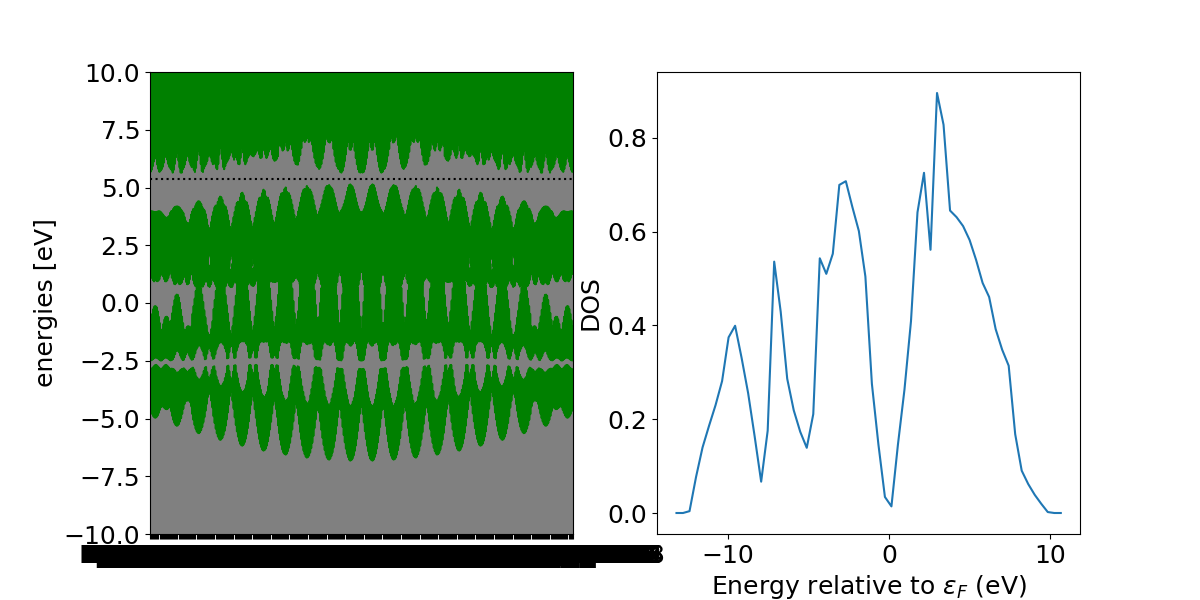
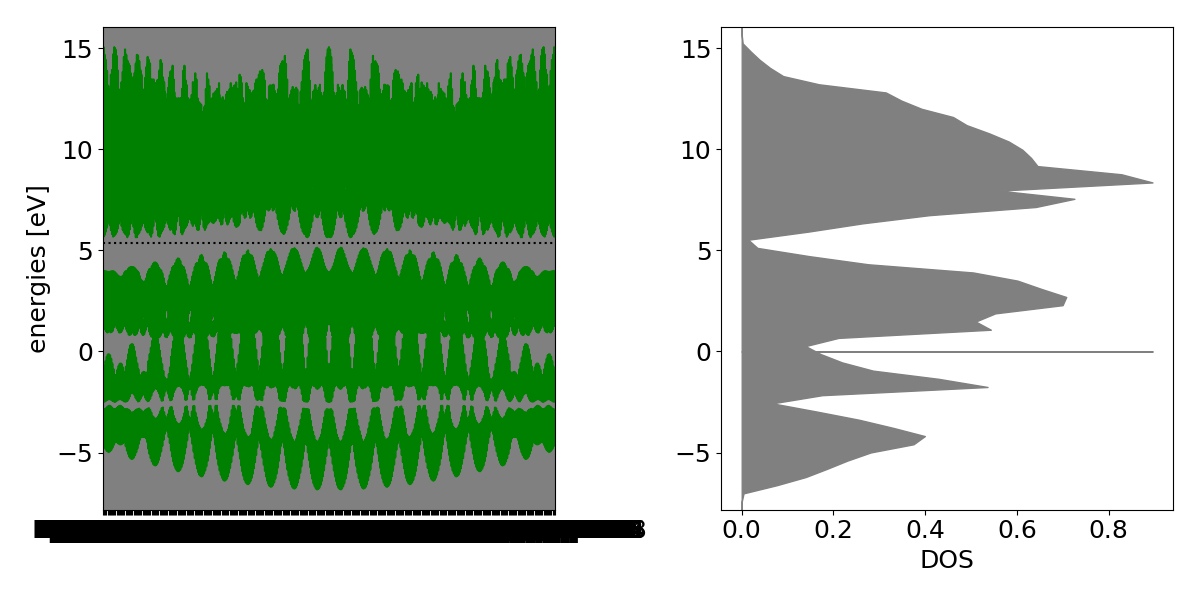
Update task 7 to not fixate density - no density to fix!

diff --git a/ComputationalMaterialsAndMolecularphysics/HW5/task7/plot_task7.py b/ComputationalMaterialsAndMolecularphysics/HW5/task7/plot_task7.py
@@ -41,11 +41,17 @@ d = pickle.load(open( "Edos.p", "rb" ))
 
 fig, ax = plt.subplots(1,2, figsize=(12,6))
 # BS
-bs.plot(filename='', ax=ax[0], show=False, emax=10.0)
+bs.plot(filename='', ax=ax[0], show=False)
+# ax[0].set_ylabel(r'Energy relative to $\epsilon_F$ (eV)')
 # DOS
-ax[1].plot(d['e']-d['fermi'], d['dos'])
-ax[1].set_xlabel(r'Energy relative to $\epsilon_F$ (eV)')
-ax[1].set_ylabel('DOS') # TODO set proper units
+# ax[1].plot(d['e']-d['fermi'], d['dos'])
+ax[1].fill_between( d['dos'], d['e'], y2=0, color='grey',
+                   edgecolor='k', lw=1)
+ax[1].set_xlabel('DOS') # TODO set proper units
+lims = (d['e'].min(), d['e'].max())
+ax[0].set_ylim(lims)
+ax[1].set_ylim(lims)
+plt.tight_layout()
 plt.savefig('electronicSi')
 
 # Extract and plot phonon band structure and DOS

diff --git a/ComputationalMaterialsAndMolecularphysics/HW5/task7/task7.py b/ComputationalMaterialsAndMolecularphysics/HW5/task7/task7.py
@@ -133,7 +133,6 @@ print('Phononic structure calculation started')
 atoms, calc = restart('Si_calc.gpw')
 # kpts = {'size': (20,20,20)}
 calc.set(
-    fixdensity=True,
     symmetry='off',  
 )
 
@@ -145,7 +144,7 @@ ph = Phonons(atoms, calc, supercell=(N, N, N), delta=0.05, name='./phonons/ph_Si
 # Run the phonon calculation
 if world.rank == 0:
     print('******** Phonon calculation started *********')
-ph.run()  
+ph.run() 
 if world.rank == 0:
     print('******** Phonon calculation completed *********')
 ph.read(acoustic=True)
